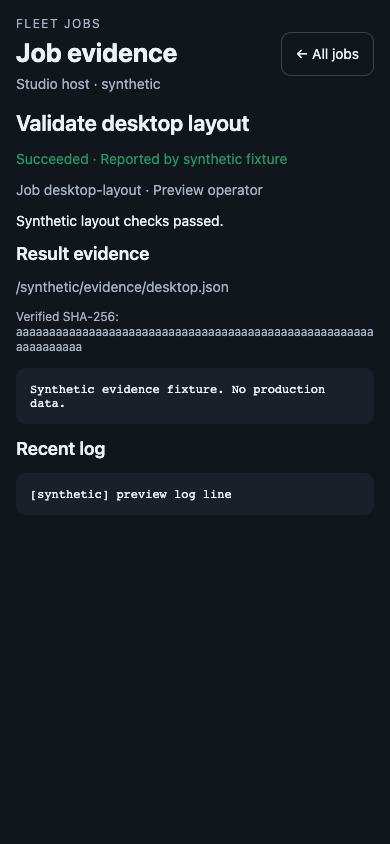
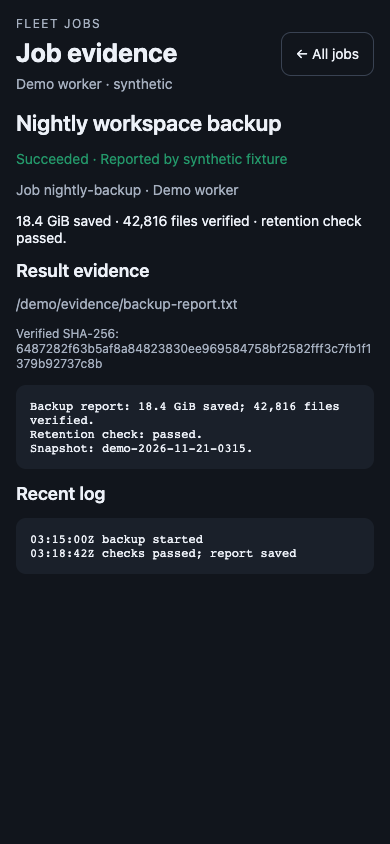
Show Fleet Jobs use cases and fictional demos

diff --git a/README.md b/README.md
@@ -1,6 +1,41 @@
 # Fleet Jobs for Paseo
 
-Fleet Jobs is a read-only Paseo plug-in for viewing progress and result evidence published by job scripts. It can show jobs from the current host and, when configured, up to eight hosts reachable over SSH. It can also observe explicitly configured artifacts, collect resource readings, and keep a persistent local change inbox. It does not launch, stop, or discover jobs.
+**Check on long-running work without opening another terminal.**
+
+Fleet Jobs brings job progress, results and saved evidence into Paseo. See what is running, what needs attention and what finished—on one machine or across your own SSH-connected workers. Open a job to read its result report and recent log from your desktop or phone.
+
+Your scripts publish small JSON receipts, or an optional file observer watches a result file you choose. Fleet Jobs displays those records; your existing tools keep running the work.
+
+![Fleet Jobs showing fictional build and processing jobs](assets/fleet-desktop.png)
+
+*The screenshots use entirely fictional jobs, hosts, paths and reports. They render the real plugin interface in a browser; the narrow screenshot below is a mobile-sized preview, not a native phone capture.*
+
+## Where it helps
+
+| When you… | Fleet Jobs helps you… |
+| --- | --- |
+| Leave a build or test suite running | Check its reported progress and open the saved test report when it finishes. |
+| Run backups or data exports overnight | See the reported outcome and inspect a verification report without finding the right terminal. |
+| Process video, audio or a large dataset | Follow script-reported progress and spot a stale heartbeat. |
+| Run model evaluations or experiments | Keep the reported verdict next to the exact saved evidence; leave results unknown when no verdict exists. |
+| Use several machines | View local jobs and up to eight explicitly configured SSH sources together, with optional disk and NVIDIA GPU readings. |
+
+### From status to evidence
+
+A green result means the publisher reported success **and** the saved evidence matches its recorded SHA-256. If that evidence disappears or changes, the result becomes unknown. The checksum checks the saved bytes; your script or observer rule decides what counts as success.
+
+<img src="assets/evidence-mobile.png" alt="Mobile-sized Fleet Jobs detail showing a fictional backup report, evidence checksum and recent log" width="390" />
+
+### Fits around your existing workflow
+
+- **Start small:** one Paseo host and one receipt; remote aggregation is optional.
+- **Keep your runners:** add receipt commands to a shell script, scheduled task or agent workflow, or configure a file observer without changing the runner.
+- **Catch up later:** the background collector retains a local Recent changes inbox while the host is awake and Paseo is running.
+- **Keep data on your hosts:** receipts and settings live outside the plugin; remote sources use your existing SSH access. Paired Paseo clients can read the configured metadata and evidence.
+
+Fleet Jobs is a read-only view of jobs. It does not launch or stop work, automatically discover processes, reserve resources or send phone push notifications.
+
+[Install](#install-from-a-git-checkout) · [Try a demo](#try-it-with-a-fictional-job) · [Connect workers](#optional-ssh-sources) · [Observe existing reports](#automatic-file-observers) · [Data and trust](#data-and-trust)
 
 ## Requirements
 
@@ -8,7 +43,7 @@ Fleet Jobs is a read-only Paseo plug-in for viewing progress and result evidence
 - Node.js 20 or later on each host running the `fleet-jobs` CLI
 - For optional remote hosts: SSH available on the Paseo server host, key-based access, and the remote host key already trusted in `known_hosts`
 
-The UI uses the client supplied by Paseo and is available in Paseo desktop and mobile clients when the plug-in is enabled there.
+The UI uses the client supplied by Paseo and is available in Paseo desktop and mobile clients when plugins are enabled on the host. macOS and Linux have been exercised; Windows has not been validated.
 
 ## Install from a Git checkout
 
@@ -21,9 +56,9 @@ node /absolute/path/paseo-fleet-jobs/bin/fleet-jobs.mjs --help
 
 The CLI is already bundled. No dependency installation or build is needed to run it. Enable plugins in Paseo settings if needed.
 
-## Install from an npm tarball
+## Install from a package tarball
 
-From this repository, create the package tarball:
+If you already have a release tarball, skip to extraction below. To create one from this repository:
 
 ```sh
 npm ci
@@ -44,11 +79,53 @@ Repeat the installation on each Paseo host where you want Fleet Jobs available. 
 
 The package and Git source contain the bundled `fleet-jobs` CLI as well as the plug-in. A Git installation needs no dependency installation to run this CLI. To rebuild it during development, use `npm ci` followed by `npm run build:cli`; commit the regenerated bundle with its source changes.
 
+## Try it with a fictional job
+
+Run this on the **Paseo host** where you installed the plugin. Set the first path to your checkout or extracted package. The helper calls the bundled CLI directly; no global npm install is needed.
+
+```sh
+FLEET_JOBS_PLUGIN="/absolute/path/paseo-fleet-jobs"
+fleet_jobs() { node "$FLEET_JOBS_PLUGIN/bin/fleet-jobs.mjs" "$@"; }
+
+# A separate directory and a unique id keep every demo run distinct.
+demo_run="demo-$(date +%Y%m%d-%H%M%S)-$$"
+mkdir -p "$HOME/fleet-jobs-demo/$demo_run"
+cd "$HOME/fleet-jobs-demo/$demo_run"
+now=$(date -u +%Y-%m-%dT%H:%M:%SZ)
+cat > receipt.json <<EOF
+{
+  "schemaVersion": 1,
+  "id": "$demo_run",
+  "title": "Build the example docs",
+  "project": "Getting started",
+  "status": "running",
+  "startedAt": "$now",
+  "updatedAt": "$now",
+  "message": "Fictional demo; no build was launched"
+}
+EOF
+fleet_jobs record ./receipt.json
+fleet_jobs heartbeat "$demo_run" --progress 60 --message "Demo: checking links"
+```
+
+Open **Fleet Jobs** from the host's Paseo sidebar and refresh. You should see the demo at 60% reported progress. Then, in the same shell, write its fictional result and mark it complete:
+
+```sh
+printf '%s\n' 'Demo report: 24 example pages checked; 0 broken links.' > result.txt
+fleet_jobs finish "$demo_run" --status succeeded --evidence ./result.txt \
+  --message "Demo complete; open the saved report"
+fleet_jobs detail "$demo_run"
+```
+
+Refresh and open the job: its state should be **Succeeded**, with the report and a verified checksum. Keep `result.txt` in place if you want that evidence to remain readable. This example uses the default data home; if your installation uses a custom home, pass the same `--home PATH` to the CLI. A CLI-only `FLEET_JOBS_HOME` environment change does not reconfigure an already-running Paseo daemon.
+
+The remaining examples use `fleet-jobs` as shorthand for the bundled CLI. You can use the `fleet_jobs` helper above instead.
+
 ## Publish and inspect receipts
 
 Job scripts own receipt creation and updates. By default, the CLI stores receipts under `~/.paseo-fleet-jobs/jobs/`; set `FLEET_JOBS_HOME` or pass `--home PATH` to choose another data directory. This data directory is outside the installed package and should be retained when updating the plug-in.
 
-Create a receipt JSON file and an evidence artifact. The receipt input must be a regular file no larger than 32 KiB. Evidence and optional log paths may be relative to the receipt file. `record` validates the complete receipt, resolves paths, hashes current evidence, and writes the receipt atomically:
+For a real job, choose an id unique to that run and use current timestamps. Create a receipt JSON file and an evidence artifact. The receipt input must be a regular file no larger than 32 KiB. Evidence and optional log paths may be relative to the receipt file. `record` validates the complete receipt, resolves paths, hashes current evidence, and writes the receipt atomically:
 
 ```sh
 fleet-jobs record ./run-receipt.json
@@ -134,7 +211,7 @@ The status is a publisher claim. SHA-256 detects whether the evidence bytes chan
 
 ## Automatic file observers
 
-Place an array in `<data home>/observers.json`; see `examples/observer.json`. Each entry names an explicit evidence path, a unique run id, `runStartedAt`, and an outcome rule. Text rules use distinct literal success/failure markers; JSON rules compare one explicit field path with scalar success/failure values. Use `{ "kind": "unassessed" }` when the artifact contains metrics without an acceptance verdict: its status stays unknown. Configuration is bounded to 32 entries and 32 KiB.
+Place an array in `<data home>/observers.json`; see [the observer example](examples/observer.json). Each entry names an explicit evidence path, a unique run id, `runStartedAt`, and an outcome rule. Text rules use distinct literal success/failure markers; JSON rules compare one explicit field path with scalar success/failure values. Use `{ "kind": "unassessed" }` when the artifact contains metrics without an acceptance verdict: its status stays unknown. Configuration is bounded to 32 entries and 32 KiB.
 
 An optional `heartbeatPath` uses that file's modification time, so an unchanged file never receives a fresh heartbeat merely because the observer is polling. A PID file is unsuitable. `logPath` supplies a diagnostic tail. Evidence must be a real UTF-8 file of at most 2 MiB and must not predate the run. Both outcome markers in one artifact are ambiguous and remain unknown. A configured rule is a publisher policy, not independent semantic validation.
 
@@ -150,7 +227,7 @@ The daemon must remain running and the host awake. Each worker collects independ
 
 ## Resource observations
 
-Optional `<data home>/resources.json` configures up to eight explicit disk paths, NVIDIA telemetry, and a local directory of heavy-work claims; see `examples/resources.json`. Disk readings show available space. NVIDIA uses only `/usr/bin/nvidia-smi` with a fixed bounded query. Unsupported hardware produces an unavailable reading. Resource readings cache for at most one minute in the daemon.
+Optional `<data home>/resources.json` configures up to eight explicit disk paths, NVIDIA telemetry, and a local directory of heavy-work claims; see [the resource example](examples/resources.json). Disk readings show available space. NVIDIA uses only `/usr/bin/nvidia-smi` with a fixed bounded query. Unsupported hardware produces an unavailable reading. Resource readings cache for at most one minute in the daemon.
 
 Work claims show only aggregate counts and weights from bounded claim files. “Unexpired” describes their timestamp/TTL window, not process liveness or free capacity. GPU utilization is also not reservation availability. Fleet Jobs never acquires leases, prunes claims, or reserves resources.
 
@@ -163,3 +240,18 @@ This inbox does not send operating-system or phone push notifications. It needs 
 ## Updating and removing
 
 Keep the data home when replacing the extracted package in its existing location, then run `paseo plugin reload paseo-fleet-jobs`. Do not install the same plugin twice. Remove it through Paseo's plugin controls when no longer needed; cleanup stops its polling timer. Existing receipts, evidence and logs remain yours.
+
+## Development and license
+
+The source includes the plugin, bundled CLI, typed receipt schemas and tests. For development:
+
+```sh
+npm ci
+npm run typecheck
+npm test
+npm run build:cli
+```
+
+Commit the regenerated CLI with any CLI source changes. Screenshot provenance is documented in [assets/README.md](assets/README.md).
+
+[MIT](LICENSE). Bundled dependency attribution is in [THIRD_PARTY_NOTICES.txt](THIRD_PARTY_NOTICES.txt).

diff --git a/assets/README.md b/assets/README.md
@@ -1,0 +1,10 @@
+# Screenshot provenance
+
+The listing and README images show the actual `FleetScreen` and `HostHealth` components rendered through React Native Web. A separate capture harness supplies fictional RPC responses and host connections; it never reads a job store, contacts an SSH source or connects to a real Paseo daemon.
+
+- `fleet-desktop.png`: fictional job overview, resource readings and recent changes.
+- `evidence-mobile.png`: fictional backup result, report, checksum and log at a narrow browser viewport.
+
+All names, paths, jobs, resource values and report contents are invented. The checksum in the detail fixture is calculated from its fictional report. These images illustrate the interface; they are not evidence of real jobs or native phone testing.
+
+To refresh them, render the current components with synthetic `useRpc` and `useHosts` providers and a fresh React Query client. Use an isolated browser profile with a fixed clock and locale, capture only the preview page at its layout viewport size, and inspect every image for clipping and accidental private data before replacing these files. Keep the image paths aligned with `paseo-plugin.json` and the README. Do not capture an installed plugin connected to personal or production data for public images.
